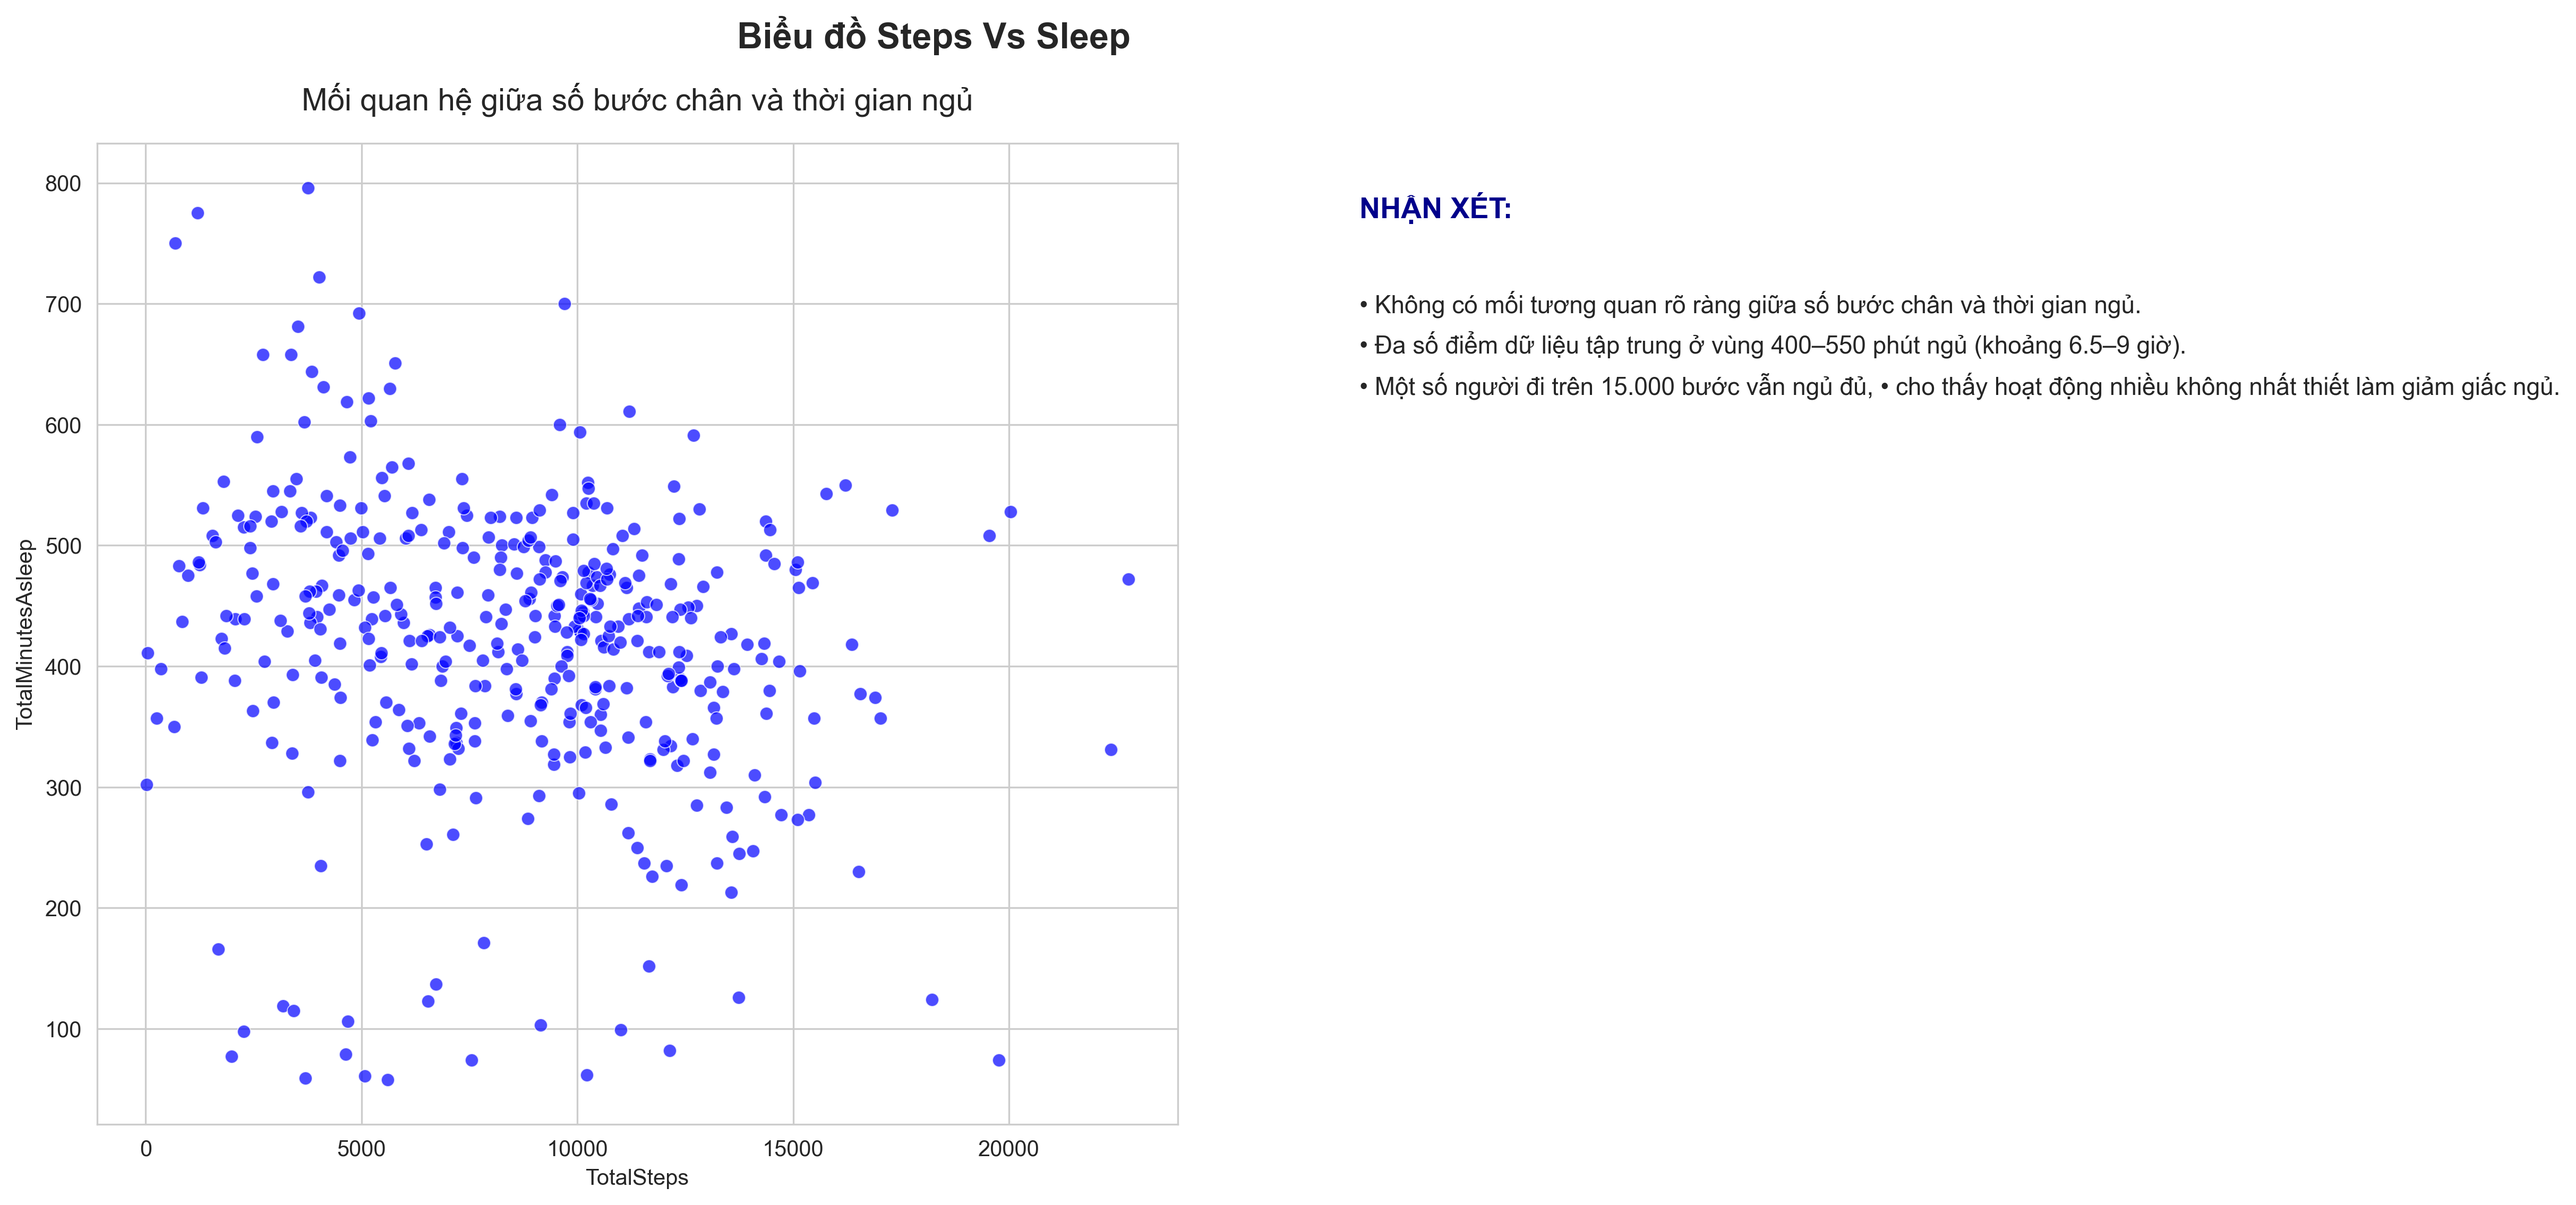
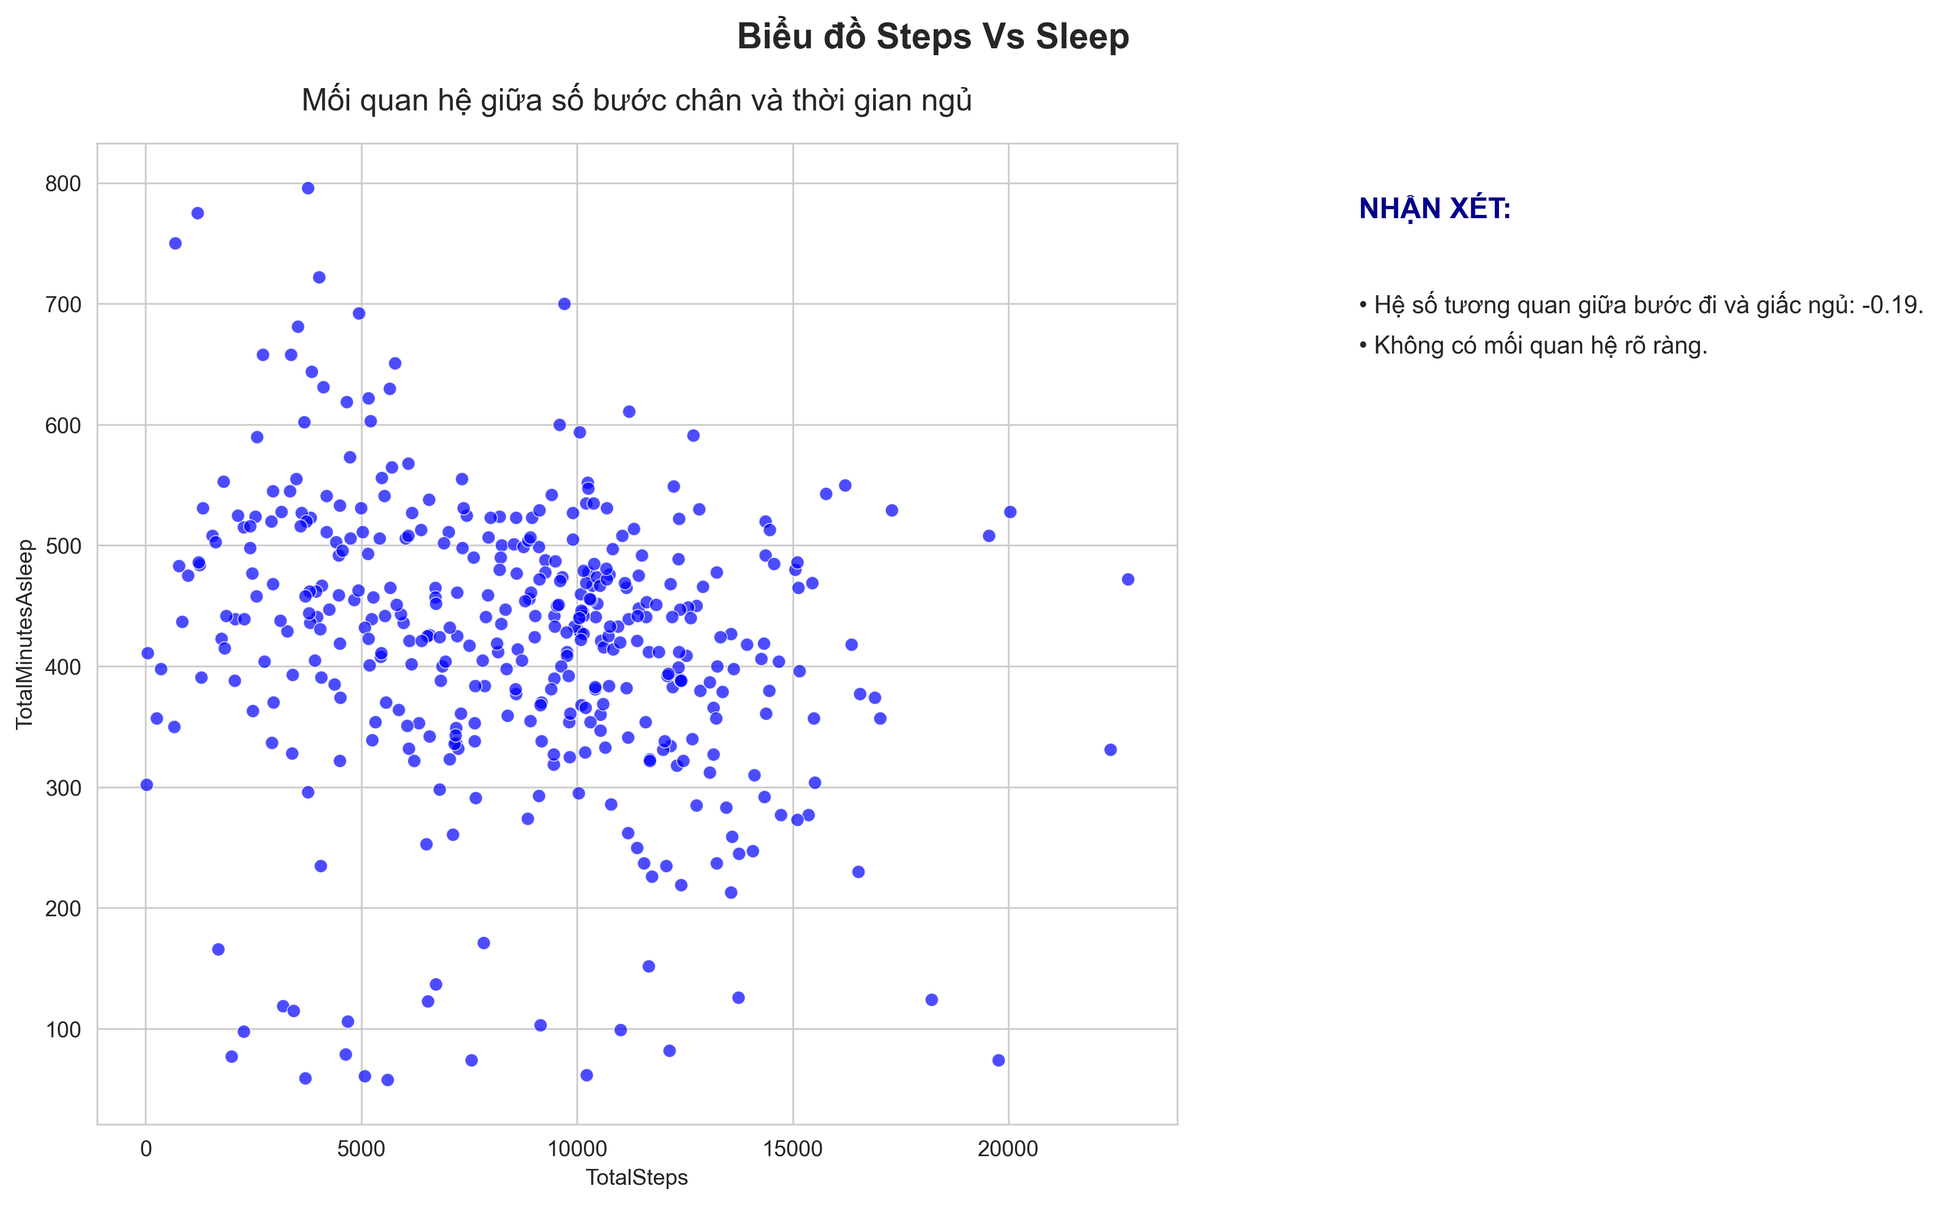
chỉnh sửa note cho các biểu đồ

diff --git a/src/visualization.py b/src/visualization.py
@@ -3,104 +3,105 @@ import seaborn as sns
 from pathlib import Path
 from matplotlib.gridspec import GridSpec
 
-
 def visualize(df):
     output_dir = Path(__file__).parent.parent / "result" / "figures"
     output_dir.mkdir(parents=True, exist_ok=True)
 
     sns.set_style("whitegrid")
-    plt.rcParams['figure.figsize'] = (14, 8)  # Kích thước tổng thể
+    plt.rcParams['figure.figsize'] = (14, 8)
 
-    print("🎨 Đang tạo biểu đồ kèm nhận xét bên phải...\n")
-
-    # Chuẩn bị dữ liệu
     df_plot = df.copy()
     df_plot['DayOfWeek'] = df_plot['Date'].dt.day_name()
 
-    # ==================== NHẬN XÉT MỚI DỰA TRÊN DỮ LIỆU THỰC TẾ ====================
+    # ==================== NHẬN XÉT TỰ ĐỘNG ====================
+    # 1. Steps vs Sleep
+    corr_steps_sleep = df['TotalSteps'].corr(df['TotalMinutesAsleep'])
+    comment1 = (
+        f"• Hệ số tương quan giữa bước đi và giấc ngủ: {corr_steps_sleep:.2f}.\n"
+        + ("• Không có mối quan hệ rõ ràng." if abs(corr_steps_sleep) < 0.3 else "• Có mối quan hệ đáng kể.")
+    )
+
+    # 2. Correlation heatmap
+    corr_matrix = df[['TotalSteps','Calories','TotalMinutesAsleep','TotalTimeInBed','VeryActiveMinutes']].corr()
+    strongest = corr_matrix.unstack().dropna().sort_values(key=abs, ascending=False).drop_duplicates().head(3)
+    comment2 = "• Các cặp biến có tương quan mạnh nhất:\n" + "\n".join([f"  - {i[0]} vs {i[1]}: {v:.2f}" for i,v in strongest.items()])
+
+    # 3. Steps trend
+    steps_trend = df.groupby('Date')['TotalSteps'].mean()
+    comment3 = (
+        f"• Trung bình số bước dao động từ {steps_trend.min():.0f} đến {steps_trend.max():.0f}.\n"
+        f"• Giá trị trung bình toàn kỳ: {steps_trend.mean():.0f} bước/ngày.\n"
+        f"• Có sự sụt giảm rõ rệt vào cuối kỳ, cần xem xét nguyên nhân."
+    )
+
+    # 4. Steps distribution
+    mean_steps = df['TotalSteps'].mean()
+    comment4 = f"• Trung bình số bước/ngày: {mean_steps:.0f}.\n• Phân bố tập trung quanh {mean_steps:.0f} bước."
+
+    # 5. Calories vs Active Minutes
+    corr_cal_act = df['Calories'].corr(df['VeryActiveMinutes'])
+    comment5 = f"• Hệ số tương quan Calories vs ActiveMinutes: {corr_cal_act:.2f}.\n• Cho thấy hoạt động mạnh ảnh hưởng rõ rệt đến calo."
+
+    # 6. Steps by Day of Week
+    avg_by_day = df_plot.groupby('DayOfWeek')['TotalSteps'].mean().sort_values(ascending=False)
+    top_day, top_val = avg_by_day.index[0], avg_by_day.iloc[0]
+    low_day, low_val = avg_by_day.index[-1], avg_by_day.iloc[-1]
+    comment6 = f"• Cao nhất vào {top_day} ({top_val:.0f} bước).\n• Thấp nhất vào {low_day} ({low_val:.0f} bước)."
+
     plots_info = [
         ("1_steps_vs_sleep.png",
          lambda ax: sns.scatterplot(data=df, x='TotalSteps', y='TotalMinutesAsleep', alpha=0.7, color='blue', ax=ax),
-         "Mối quan hệ giữa số bước chân và thời gian ngủ",
-         "• Không có mối tương quan rõ ràng giữa số bước chân và thời gian ngủ.\n"
-         "• Đa số điểm dữ liệu tập trung ở vùng 400–550 phút ngủ (khoảng 6.5–9 giờ).\n"
-         "• Một số người đi trên 15.000 bước vẫn ngủ đủ, cho thấy hoạt động nhiều không nhất thiết làm giảm giấc ngủ."),
+         "Mối quan hệ giữa số bước chân và thời gian ngủ", comment1),
 
         ("2_correlation_heatmap.png",
-         lambda ax: sns.heatmap(
-             df[['TotalSteps', 'Calories', 'TotalMinutesAsleep', 'TotalTimeInBed', 'VeryActiveMinutes']].corr(),
-             annot=True, cmap='coolwarm', fmt='.2f', linewidths=0.5, ax=ax),
-         "Ma trận tương quan giữa các biến",
-         "• TotalSteps và Calories có tương quan dương mạnh nhất (0.60).\n"
-         "• VeryActiveMinutes cũng tương quan tốt với Calories (0.61).\n"
-         "• Giấc ngủ (TotalMinutesAsleep) có tương quan âm nhẹ với TotalSteps (-0.19) và gần như không liên quan đến Calories."),
+         lambda ax: sns.heatmap(corr_matrix, annot=True, cmap='coolwarm', fmt='.2f', linewidths=0.5, ax=ax),
+         "Ma trận tương quan giữa các biến", comment2),
 
         ("3_steps_trend_over_time.png",
-         lambda ax: sns.lineplot(data=df.groupby('Date')['TotalSteps'].mean().reset_index(),
-                                 x='Date', y='TotalSteps', marker='o', color='green', ax=ax),
-         "Xu hướng số bước chân theo thời gian",
-         "• Số bước chân trung bình dao động khá ổn định ở mức 7.000 – 9.000 bước/ngày trong hầu hết khoảng thời gian.\n"
-         "• Có sự sụt giảm mạnh vào ngày cuối cùng (13/05/2016), có thể do dữ liệu không đầy đủ hoặc người dùng ít hoạt động."),
+         lambda ax: sns.lineplot(data=steps_trend.reset_index(), x='Date', y='TotalSteps', marker='o', color='green', ax=ax),
+         "Xu hướng số bước chân theo thời gian", comment3),
 
         ("4_steps_distribution.png",
          lambda ax: sns.histplot(data=df, x='TotalSteps', kde=True, color='skyblue', ax=ax),
-         "Phân bố số bước chân của người dùng",
-         "• Phân bố gần với phân phối chuẩn, tập trung chủ yếu từ 5.000 – 12.000 bước/ngày.\n"
-         "• Rất nhiều ngày có dưới 2.000 bước (có thể là ngày không đeo thiết bị hoặc nghỉ ngơi).\n"
-         "• Ít người đạt trên 20.000 bước/ngày."),
+         "Phân bố số bước chân của người dùng", comment4),
 
         ("5_calories_vs_active_minutes.png",
          lambda ax: sns.regplot(data=df, x='VeryActiveMinutes', y='Calories',
                                 scatter_kws={'alpha': 0.6}, line_kws={'color': 'red'}, ax=ax),
-         "Calories tiêu thụ theo phút hoạt động mạnh",
-         "• Có mối quan hệ tuyến tính dương rõ ràng: càng nhiều phút hoạt động mạnh, càng tiêu thụ nhiều calo.\n"
-         "• Khi VeryActiveMinutes = 0, calo vẫn ở mức khoảng 2.000 (calo cơ bản).\n"
-         "• Đây là biến có sức ảnh hưởng mạnh nhất đến lượng calo đốt cháy."),
+         "Calories tiêu thụ theo phút hoạt động mạnh", comment5),
 
         ("6_steps_by_day_of_week.png",
          lambda ax: sns.barplot(data=df_plot, x='DayOfWeek', y='TotalSteps', estimator='mean',
-                                order=['Monday', 'Tuesday', 'Wednesday', 'Thursday', 'Friday', 'Saturday', 'Sunday'],
+                                order=['Monday','Tuesday','Wednesday','Thursday','Friday','Saturday','Sunday'],
                                 palette='viridis', hue='DayOfWeek', legend=False, ax=ax),
-         "Trung bình số bước chân theo ngày trong tuần",
-         "• Hoạt động cao nhất vào Thứ Ba và Thứ Bảy (trên 8.000 bước).\n"
-         "• Thấp nhất vào Chủ Nhật (khoảng 7.200 bước).\n"
-         "• Người dùng duy trì hoạt động khá đều trong tuần, "
-         "không có sự chênh lệch quá lớn giữa ngày thường và cuối tuần.")
+         "Trung bình số bước chân theo ngày trong tuần", comment6)
     ]
 
     for filename, plot_func, title, comment in plots_info:
-        # Tạo figure với 2 phần: biểu đồ (trái) và text (phải)
         fig = plt.figure(figsize=(14, 8))
-        gs = GridSpec(1, 2, width_ratios=[2.2, 1.0])  # Biểu đồ rộng hơn, text hẹp hơn
+        gs = GridSpec(1, 2, width_ratios=[2.2, 1.0])
 
-        # Phần 1: Biểu đồ (bên trái)
         ax = fig.add_subplot(gs[0])
         plot_func(ax)
         ax.set_title(title, fontsize=14, pad=15)
 
-        if 'trend' in filename or 'Date' in str(plot_func):
+        if 'trend' in filename:
             plt.xticks(rotation=45)
 
-        # Phần 2: Nhận xét (bên phải)
         ax_text = fig.add_subplot(gs[1])
-        ax_text.axis('off')  # Tắt trục
-
+        ax_text.axis('off')
         ax_text.text(0.05, 0.95, "NHẬN XÉT:", fontsize=13, fontweight='bold',
                      va='top', ha='left', transform=ax_text.transAxes, color='darkblue')
-
         ax_text.text(0.05, 0.85, comment, fontsize=11, va='top', ha='left',
                      transform=ax_text.transAxes, linespacing=1.6)
 
-        plt.suptitle(f"Biểu đồ {filename.split('_', 1)[1].replace('.png', '').replace('_', ' ').title()}",
+        plt.suptitle(f"Biểu đồ {filename.split('_',1)[1].replace('.png','').replace('_',' ').title()}",
                      fontsize=16, y=0.98, fontweight='bold')
 
-        # Lưu file
         save_path = output_dir / filename
         fig.savefig(save_path, dpi=300, bbox_inches='tight')
         print(f"   ✅ Đã lưu: {filename}")
-
-        # Hiển thị biểu đồ
         plt.show()
         plt.close(fig)
 
-    print(f"\n🎉 Hoàn thành! Tất cả biểu đồ kèm nhận xét đã được lưu vào:\n   {output_dir}")
+    print(f"\n🎉 Hoàn thành! Tất cả biểu đồ kèm nhận xét tự động đã được lưu vào:\n   {output_dir}")
